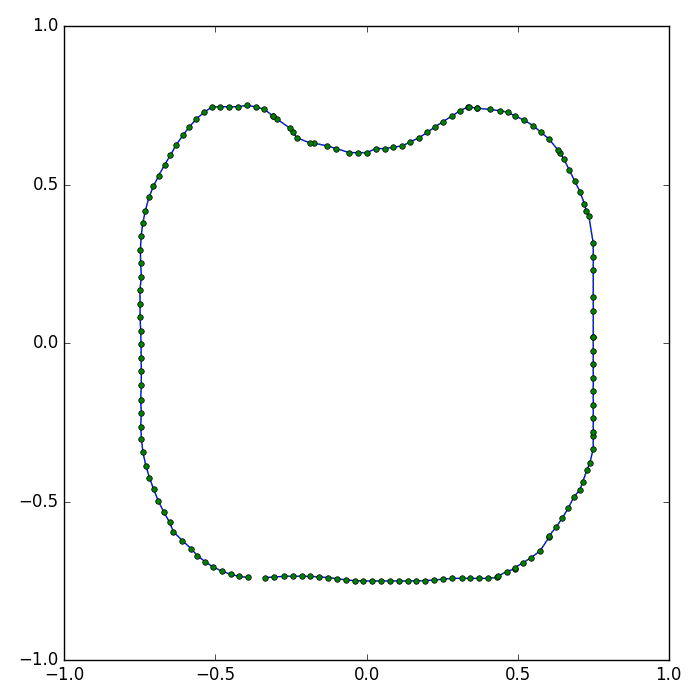
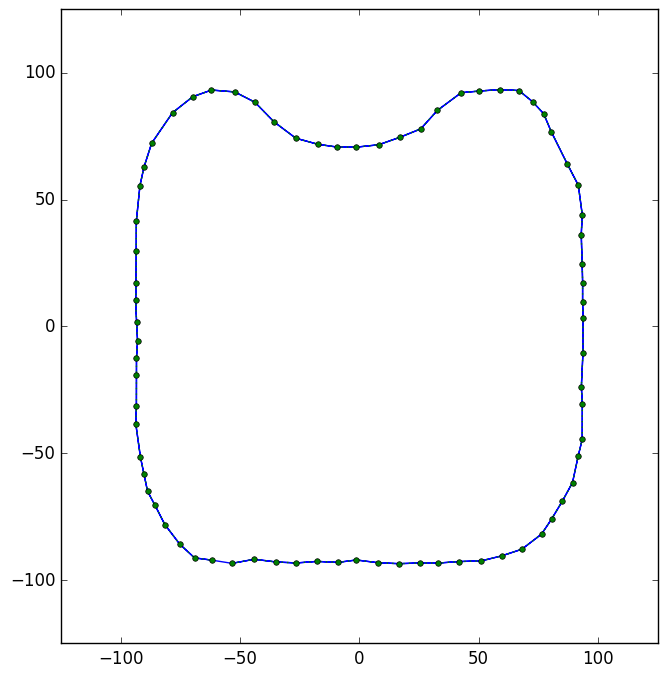
Añade a Generar_matriz_de_fuerza.py el código para guardar la imagen de la trayectoria en el la carpeta de imagenes de la interfaz de usuario, para que al momento de ser compiladas con catkin_make se actualicen las imagen y coincidan con la trayectorias.

diff --git a/esquema_lider_seguidor/src/Codigos_para_generacion_de_trayectorias/Generar_matriz_de_fuerza.py b/esquema_lider_seguidor/src/Codigos_para_generacion_de_trayectorias/Generar_matriz_de_fuerza.py
@@ -9,120 +9,143 @@ from matplotlib import cm
 from matplotlib.ticker import LinearLocator, FormatStrFormatter
 from scipy.spatial import KDTree
 
-num_archivo='1'#Ingresar del 1 al 3 o el número de trayectorias a escoger y que hayan sido previamente generadas.
-puntos='Trayectoria'+num_archivo+'.txt'# Nombre del archivo a leer.
-nombre='MatrizDeFuerza'+num_archivo+'.npy'# Nombre del archivo de salida que contiene la matriz de fuerza.
-nombrep='PuntosAjustados'+num_archivo+'.npy'# Nombre del archivo de salida que contiene los puntos ajustados al mapa.
-nombreGrafica1='GraficoPorSeguir'+num_archivo+'.jpg'# Nombre la gráfica a seguir.
-nombreGrafica2='GraficoInterpolado'+num_archivo+'.jpg'# Nombre la gráfica con interpolación.
-nombreGrafica3='GraficoDistancias'+num_archivo+'.jpg'# Nombre la gráfica con interpolación.
-map_size_x=250.0 # Medida del mapa en "x" en cm.
-map_size_y=250.0 # Medida del mapa en "y" en cm.
+num_archivo = '3' # Ingresar del 1 al 3 o el número de trayectorias a escoger y que hayan sido previamente generadas.
+puntos = 'Trayectoria'+num_archivo+'.txt' # Nombre del archivo a leer.
+nombre = 'MatrizDeFuerza'+num_archivo+'.npy' # Nombre del archivo de salida que contiene la matriz de fuerza.
+nombrep = 'PuntosAjustados'+num_archivo+'.npy' # Nombre del archivo de salida que contiene los puntos ajustados al mapa.
+nombreGrafica1 = 'GraficoPorSeguir'+num_archivo+'.jpg' # Nombre la gráfica a seguir.
+nombreGrafica2 = 'GraficoInterpolado'+num_archivo+'.jpg' # Nombre la gráfica con interpolación.
+nombreGrafica3 = 'GraficoDistancias'+num_archivo+'.jpg' # Nombre la gráfica con interpolación.
+map_size_x = 250.0 # Medida del mapa en "x" en cm.
+map_size_y = 250.0 # Medida del mapa en "y" en cm.
 resolution = 1.0 # Medida del mallado en cm.
 matrix = np.zeros( (map_size_x/resolution,map_size_y/resolution,2),dtype='f' ) # Generar matriz de tamaño x*y*2 para guardar matriz de fuerza.
 matrix_dist = np.zeros( (map_size_x/resolution,map_size_y/resolution),dtype='f' ) # Generar matriz de tamaño x*y*2 para guardar distancias.
 ind_lookahead = np.zeros( (map_size_x/resolution,map_size_y/resolution),dtype='d' ) # Generar matriz con número de índices a avanzar. 
-margen=50#Longitud en cm desde el borde hasta el punto mas lejano de la trayectoria.
-min_dist=0.05#Distancia mínima de separación entre 2 puntos de trayectoria en m.
+margen = 50 # Longitud en cm desde el borde hasta el punto mas lejano de la trayectoria.
+min_dist = 0.05 # Distancia mínima de separación entre 2 puntos de trayectoria en m.
+
+def splitall(path): # Función para separar cada directorio de una ruta.
+    allparts = [] # Crea lista donde se almacenaran los datos..
+    while 1:
+        parts = os.path.split(path) # Usa la función split para quitar la última parte.
+        print parts[0]
+        print parts[1]
+        if parts[0] == path:  # Sale del ciclo para rutas absolutas.
+            allparts.insert(0, parts[0]) # Inserta en la posción cero de la lista la última parte que separó.
+            break # Sale del ciclo
+        elif parts[1] == path: # Sale del ciclo para rutas relativas.
+            allparts.insert(0, parts[1]) # Inserta en la posción cero de la lista la última parte que separó.
+            break # Sale del ciclo.
+        else: # Guarda la ruta sin la última parte.
+            path = parts[0] # La nueva ruta es la ruta sin la última parte.
+            allparts.insert(0, parts[1]) # Inserta en la posción cero de la lista la última parte que separó.
+    return allparts # Regresa la lista con las partes separadas.
 
 def AjustarDatos():
-    ruta=os.path.dirname(os.path.abspath(__file__))+'/Generacion_de_puntos_de_trayectoria/Archivos_de_puntos/' #Obtener la ruta del archivo.
-    arr_in=np.array(list(path_parser.read_points(ruta+puntos))) # Guarda los puntos en un arreglo.
-    ax,ay=arr_in.T# Separa los puntos en 2 vectores (x,y).
-    min_x,min_y,max_x,max_y=minymax(ax,ay)# Calcula los mínimos y maximos de las coordenadas en "x" y en "y".
-    #Imprime los valores.
-    Imprimir_valores(min_x,min_y,max_x,max_y)# Imprime los valores.
-    lenx,leny=[(max_x-min_x),(max_y-min_y)]# Calcula la longitud (maximo-minimo) en "x" y en "y".
-    offsetx,offsety=[-(max_x-lenx/2),-(max_y-leny/2)]# Distancia para centrar en "x" y en "y".
-    arr_in = arr_in+np.array([offsetx,offsety])# Centra la trayectoria en (0,0).
-    #Escalar
-    ax,ay=arr_in.T
-    min_x,min_y,max_x,max_y=minymax(ax,ay)# Calcula los mínimos y maximos de las coordenadas en "x" y en "y".
-    Imprimir_valores(min_x,min_y,max_x,max_y)# Imprime los valores.
-    lenx,leny=[(max_x-min_x),(max_y-min_y)]# Calcula la longitud (maximo-minimo) en "x" y en "y".
-    scale_x,scale_y=[(map_size_x-2*margen)/(100*lenx),(map_size_y-2*margen)/(100*leny)]# Calcula los valores de escalamiento para ajustarse al mapa.
-    scale=np.array([scale_x,scale_y])#Valor de escala.
+    ruta = os.path.dirname(os.path.abspath(__file__))+'/Generacion_de_puntos_de_trayectoria/Archivos_de_puntos/' # Obtener la ruta del archivo.
+    arr_in = np.array(list(path_parser.read_points(ruta+puntos))) # Guarda los puntos en un arreglo.
+    ax,ay = arr_in.T # Separa los puntos en 2 vectores (x,y).
+    min_x,min_y,max_x,max_y = minymax(ax,ay) # Calcula los mínimos y maximos de las coordenadas en "x" y en "y".
+    # Imprime los valores.
+    Imprimir_valores(min_x,min_y,max_x,max_y) # Imprime los valores.
+    lenx,leny = [(max_x-min_x),(max_y-min_y)] # Calcula la longitud (maximo-minimo) en "x" y en "y".
+    offsetx,offsety = [-(max_x-lenx/2),-(max_y-leny/2)] # Distancia para centrar en "x" y en "y".
+    arr_in = arr_in+np.array([offsetx,offsety]) # Centra la trayectoria en (0,0).
+    # Escalar
+    ax,ay = arr_in.T
+    min_x,min_y,max_x,max_y = minymax(ax,ay) # Calcula los mínimos y maximos de las coordenadas en "x" y en "y".
+    Imprimir_valores(min_x,min_y,max_x,max_y) # Imprime los valores.
+    lenx,leny = [(max_x-min_x),(max_y-min_y)] # Calcula la longitud (maximo-minimo) en "x" y en "y".
+    scale_x,scale_y = [(map_size_x-2*margen)/(100*lenx),(map_size_y-2*margen)/(100*leny)] # Calcula los valores de escalamiento para ajustarse al mapa.
+    scale = np.array([scale_x,scale_y]) # Valor de escala.
     xy = np.multiply(scale,arr_in)+np.array([(map_size_x/2)/100,(map_size_y/2)/100])#Crea los puntos de Trayectoria escalados al tamaño del mapa.
-    x,y = xy.T#Obtiene los valores de "x" y "y" ya ajustados al tamaño del mapa.
-    l,xo,yo=[len(x),x[0],y[0]]#Obtiene los valores iniciales de los puntos de trayectoria y la cantidad de puntos.
-    #Crea una lista de puntos para ir guardando los puntos que cumplan con la distancia mínima.
-    xl=[xo]
-    yl=[yo]
+    x,y = xy.T # Obtiene los valores de "x" y "y" ya ajustados al tamaño del mapa.
+    l,xo,yo = [len(x),x[0],y[0]] # Obtiene los valores iniciales de los puntos de trayectoria y la cantidad de puntos.
+    # Crea una lista de puntos para ir guardando los puntos que cumplan con la distancia mínima.
+    xl = [xo]
+    yl = [yo]
     for i in range(l):
-            xf,yf=[x[i],y[i]]#Propone como punto final el punto seleccionado por el ciclo.
-            dist=np.sqrt((xf-xo)**2+(yf-yo)**2)#Calcula la distancia entre los 2 puntos.
-            if dist>min_dist:#Si la distancia es mayor a la mínima la guarda el arreglo de puntos de trayectoria a seguir.
-                    xo,yo=[xf,yf]#Actualiza el punto inicial.
-                    #Guarda el punto en la lista.
+            xf,yf = [x[i],y[i]] # Propone como punto final el punto seleccionado por el ciclo.
+            dist = np.sqrt((xf-xo)**2+(yf-yo)**2) # Calcula la distancia entre los 2 puntos.
+            if dist>min_dist: # Si la distancia es mayor a la mínima la guarda el arreglo de puntos de trayectoria a seguir.
+                    xo,yo = [xf,yf]# Actualiza el punto inicial.
+                    # Guarda el punto en la lista.
                     xl.append(xf)
                     yl.append(yf)
-    dist=np.sqrt((x[0]-xf)**2+(y[0]-yf)**2)#Calcula la distancia entre el punto inicial del arreglo y el ultimo seleccionado.
-    if dist<min_dist:#Si la distancia es menor a la mínima lo elimina de la lista.
-        xl.pop()#Elimina de la lista el punto en x
-        yl.pop()#Elimina de la lista el punto en y
-    x1,y1=[np.array(xl),np.array(yl)] # Convierte y guarda en vectores los puntos a seguir.
-    xy=np.array([x1,y1]).T# Guarda los puntos en un solo arreglo para posteriormente obtneer su árbol kd.
-    xyA=np.array([x1-(map_size_x/2)/100,y1-(map_size_y/2)/100]).T#Obtiene los puntos sin el offset para guardarlos en un archivo.
-    ruta=os.path.dirname(os.path.abspath(__file__))+'/Archivos_de_Puntos_Ajustados/' #Obtener la ruta para guardar los puntos.
-    np.save(ruta+nombrep, xyA)#Guarda los puntos a seguir.
+    dist=np.sqrt((x[0]-xf)**2+(y[0]-yf)**2) # Calcula la distancia entre el punto inicial del arreglo y el ultimo seleccionado.
+    if dist<min_dist: # Si la distancia es menor a la mínima lo elimina de la lista.
+        xl.pop() # Elimina de la lista el punto en x
+        yl.pop() # Elimina de la lista el punto en y
+    x1,y1 = [np.array(xl),np.array(yl)] # Convierte y guarda en vectores los puntos a seguir.
+    xy = np.array([x1,y1]).T# Guarda los puntos en un solo arreglo para posteriormente obtneer su árbol kd.
+    xyA = np.array([x1-(map_size_x/2)/100,y1-(map_size_y/2)/100]).T # Obtiene los puntos sin el offset para guardarlos en un archivo.
+    ruta = os.path.dirname(os.path.abspath(__file__))+'/Archivos_de_Puntos_Ajustados/' # Obtener la ruta para guardar los puntos.
+    np.save(ruta+nombrep, xyA) # Guarda los puntos a seguir.
     print('Puntos de ruta salvados')
-    fig = plt.figure(figsize=(7,7), facecolor='w')#Crea la figura para el plot.
-    fig.canvas.set_window_title('Trayectoria')#Coloca el título de Trayectoria.
-    #Grafica los puntos.
+    fig = plt.figure(figsize=(7,7), facecolor='w') # Crea la figura para el plot.
+    fig.canvas.set_window_title('Trayectoria') # Coloca el título de Trayectoria.
+    # Grafica los puntos.
     plt.plot(map_size_x/2*(np.concatenate((x1,x1))-(map_size_x/200)),map_size_y/2*(np.concatenate((y1,y1))-(map_size_y/200)))
     plt.plot(map_size_x/2*(x1-(map_size_x/200)),map_size_y/2*(y1-(map_size_y/200)), ':o', markersize=4)
-    plt.tight_layout()#Ajusta los titulos de subplots para evitar que salgan de la figura.
+    plt.tight_layout() # Ajusta los titulos de subplots para evitar que salgan de la figura.
     plt.axis(np.array([-map_size_x,map_size_x,-map_size_y,map_size_y])/2)
-    ruta=os.path.dirname(os.path.abspath(__file__))+'/Graficas_de_las_Trayectorias/' #Obtener la ruta para guardar las gráficas.
-    plt.savefig(ruta+nombreGrafica1, bbox_inches='tight')
+    ruta = os.path.dirname(os.path.abspath(__file__))+'/Graficas_de_las_Trayectorias/' #Obtener la ruta para guardar las gráficas.
+    plt.savefig(ruta+nombreGrafica1, bbox_inches='tight') # Guarda la imagen.
+    lp = splitall(os.path.abspath(__file__))[1:-4] # Obtiene la ruta del paquete en tipo lista.
+    ruta='/' # Inicializa la ruta.
+    for i in range(len(lp)):
+            ruta=ruta+str(lp[i])+'/' # Reconstruye la ruta en una cadena de texto.
+    ruta = ruta+'gui_lider_seguidor/resources/images/ty'+num_archivo+'.png' # Obtiene la ruta total.
+    plt.savefig(ruta, bbox_inches='tight') # Guarda la imagen para ser leida en la gui.
     plt.show(block=False)
-    plt.show() #Muestra la gráfica.
+    plt.show() # Muestra la gráfica.
     tree2= Arbol(xyA,30)
     return xy
 
 def near(initial_position,xind,yind,tree,xy): # Funcion para generar matriz de fuerza.
          dist, index = tree.query(initial_position) # Obtener la distancia al punto mas cercano y el indice que lo identifica.
          global matrix_dist
-         matrix_dist[xind,yind]=dist#Guardar en matriz de distancia la distancia.
-         #Encontar el punto mas cercano a llegar.
-         if dist>4*min_dist:#Si la distancia es mayor a 4 veces la distancia mínima de separación entre puntos
-             lookahead_offset = np.int(0)# avanza con dirección al punto mas cercano.
-         else:# De lo contrario
-             lookahead_offset = np.int(2)# avanza con dirección al tercer punto mas cercano.
-         ind_lookahead[xind,yind]=lookahead_offset# Guarda en la matriz de indices a avanzar.
-         lookahead_target = xy[(index + lookahead_offset) % len(xy)]# Elige punto objetivo.
-         x1, y1 = initial_position# Posición inicial.
-         x3, y3 = lookahead_target# Posición a alcanzar.
-         matrix[xind,yind,0]=x3-x1 # Guardar en matriz de Fuerza la distancia en x.
-         matrix[xind,yind,1]=y3-y1 # Guardar en matriz de Fuerza la distancia en y.
+         matrix_dist[xind,yind]=dist # Guardar en matriz de distancia la distancia.
+         # Encontar el punto mas cercano a llegar.
+         if dist>4*min_dist: # Si la distancia es mayor a 4 veces la distancia mínima de separación entre puntos
+             lookahead_offset = np.int(0) # avanza con dirección al punto mas cercano.
+         else: # De lo contrario
+             lookahead_offset = np.int(2) # avanza con dirección al tercer punto mas cercano.
+         ind_lookahead[xind,yind] = lookahead_offset # Guarda en la matriz de indices a avanzar.
+         lookahead_target = xy[(index + lookahead_offset) % len(xy)] # Elige punto objetivo.
+         x1, y1 = initial_position # Posición inicial.
+         x3, y3 = lookahead_target # Posición a alcanzar.
+         matrix[xind,yind,0] = x3-x1 # Guardar en matriz de Fuerza la distancia en x.
+         matrix[xind,yind,1] = y3-y1 # Guardar en matriz de Fuerza la distancia en y.
 
-def Arbol(xy,n):#Crea un árbol kd con interpolación y con n divisiones entre cada punto de trayectoria.
-    ax,ay=xy.T#Separa "x" y "y".
-    l=len(ax)#Longitud del vector.
-    x=[]#Lista para la interpolación en x.
-    y=[]#Lista para la interpolación en y.
-    for i in range(l+1):#Itera por todos los puntos de la trayectoria.
-        ind1,ind2=[i%l,(i+1)%l]#Calcula el indice para cada punto.
-        xo,xf,yo,yf=[ax[ind1],ax[ind2],ay[ind1],ay[ind2]]#Puntos iniciales y finales para realizar la interpolación lineal.
-        diferenciaX,diferenciaY=[xf-xo,yf-yo]#Diferencia entre los 2 puntos.
-        for j in range(n):#Agrega a la lista los n valores entre cada punto de la trayectoria.
+def Arbol(xy,n): # Crea un árbol kd con interpolación y con n divisiones entre cada punto de trayectoria.
+    ax,ay = xy.T # Separa "x" y "y".
+    l = len(ax) # Longitud del vector.
+    x = [] # Lista para la interpolación en x.
+    y = [] # Lista para la interpolación en y.
+    for i in range(l+1): # Itera por todos los puntos de la trayectoria.
+        ind1,ind2 = [i%l,(i+1)%l] # Calcula el indice para cada punto.
+        xo,xf,yo,yf = [ax[ind1],ax[ind2],ay[ind1],ay[ind2]] # Puntos iniciales y finales para realizar la interpolación lineal.
+        diferenciaX,diferenciaY=[xf-xo,yf-yo] # Diferencia entre los 2 puntos.
+        for j in range(n): # Agrega a la lista los n valores entre cada punto de la trayectoria.
             escala=float(j)/float(n)
-            x.append(xo+diferenciaX*escala)#Calcula valores entre las 2 "x".
-            y.append(yo+diferenciaY*escala)#Calcula valores entre las 2 "y".
-    x1,y1=[np.array(x),np.array(y)]#Convierte los valores a vectores.
-    xy=np.array([x1,y1]).T#Guarda en una matriz los datos.
-    #Grafica la trayectoria con una interpolación lineal.
+            x.append(xo+diferenciaX*escala) # Calcula valores entre las 2 "x".
+            y.append(yo+diferenciaY*escala) # Calcula valores entre las 2 "y".
+    x1,y1=[np.array(x),np.array(y)] # Convierte los valores a vectores.
+    xy=np.array([x1,y1]).T # Guarda en una matriz los datos.
+    # Grafica la trayectoria con una interpolación lineal.
     fig2 = plt.figure(figsize=(7,7), facecolor='w')
     fig2.canvas.set_window_title('Interpolacion')
     plt.plot(x1,y1,'*b')
     plt.axis([-1,1,-1,1])
-    ruta=os.path.dirname(os.path.abspath(__file__))+'/Graficas_de_las_Trayectorias/' #Obtener la ruta para guardar las gráficas.
-    plt.savefig(ruta+nombreGrafica2, bbox_inches='tight')
+    ruta = os.path.dirname(os.path.abspath(__file__))+'/Graficas_de_las_Trayectorias/' #Obtener la ruta para guardar las gráficas.
+    plt.savefig(ruta+nombreGrafica2, bbox_inches='tight') # Guarda la gráfica interpolada.
     plt.show(block=False)
     plt.show()
-    return KDTree(xy)#Regresa el arbol kd ya interpolado.
+    return KDTree(xy) # Regresa el arbol kd ya interpolado.
 
-def minymax(ax,ay):
+def minymax(ax,ay): # Devuelve maximos y mínimos de 2 arreglos.
     return np.array([np.min(ax),np.min(ay),np.max(ax),np.max(ay)])
 
 def Imprimir_valores(min_x,min_y,max_x,max_y):
@@ -131,38 +154,38 @@ def Imprimir_valores(min_x,min_y,max_x,max_y):
     print 'Maximo en x',max_x
     print 'Maximo en y',max_y
 
-def GenerarMatriz(xy):
+def GenerarMatriz(xy): # Genera la matriz con los puntos ya escalados.
     tree = KDTree(xy)
     print('Espere por favor ...')
-    #Crear mallado
-    X=np.arange(0,map_size_x/100,resolution/100)
-    Y=np.arange(0,map_size_y/100,resolution/100)
-    X,Y=np.meshgrid(X,Y)
-    #Definir límites del mapa
-    lim_x=int(map_size_x/resolution)
-    lim_y=int(map_size_y/resolution)
-    #Calcular matriz de fuerza para cada punto del mallado
+    # Crear mallado
+    X = np.arange(0,map_size_x/100,resolution/100)
+    Y = np.arange(0,map_size_y/100,resolution/100)
+    X,Y = np.meshgrid(X,Y)
+    # Definir límites del mapa
+    lim_x = int(map_size_x/resolution)
+    lim_y = int(map_size_y/resolution)
+    # Calcular matriz de fuerza para cada punto del mallado
     for xi in range(0, lim_x):
         print float(xi)/lim_x*100
         for yi in range(0, lim_y):
             near((xi*resolution/100,yi*resolution/100),xi,yi,tree,xy)
-    Z=matrix_dist#Guarda en Z la matriz de distancias.
-    #Grafica el espacio de distancias.
+    Z = matrix_dist#Guarda en Z la matriz de distancias.
+    # Grafica el espacio de distancias.
     fig = plt.figure(figsize=(7,7), facecolor='w')
     eje = fig.gca(projection='3d')
     fig.canvas.set_window_title('Distancias')
     surf = eje.plot_surface(X, Y, Z, cmap=cm.coolwarm,linewidth=0, antialiased=False)
-    ruta=os.path.dirname(os.path.abspath(__file__))+'/Graficas_de_las_Trayectorias/' #Obtener la ruta para guardar las gráficas.
-    plt.savefig(ruta+nombreGrafica3, bbox_inches='tight')
+    ruta = os.path.dirname(os.path.abspath(__file__))+'/Graficas_de_las_Trayectorias/' # Obtener la ruta para guardar las gráficas.
+    plt.savefig(ruta+nombreGrafica3, bbox_inches='tight') # Guarda la figura con la imagen.
     plt.show(block=False)
     plt.show()
-    ruta=os.path.dirname(os.path.abspath(__file__))+'/Archivos_de_Trayectoria/' #Obtener la ruta para guardar los puntos.
-    np.save(ruta+nombre, matrix)#Guarda los puntos a seguir.
+    ruta = os.path.dirname(os.path.abspath(__file__))+'/Archivos_de_Trayectoria/' # Obtener la ruta para guardar los puntos.
+    np.save(ruta+nombre, matrix) # Guarda los puntos a seguir.
     print('Matriz de fuerza salvada')
 
-def main():#Función Principal
-    xy=AjustarDatos()#Ajusta los datos al tamaño del mapa.
-    GenerarMatriz(xy)#Genera la matriz de Fuerza.
+def main(): # Función Principal
+    xy=AjustarDatos() # Ajusta los datos al tamaño del mapa.
+    GenerarMatriz(xy) # Genera la matriz de Fuerza.
 
 if __name__ == '__main__':
     main()
